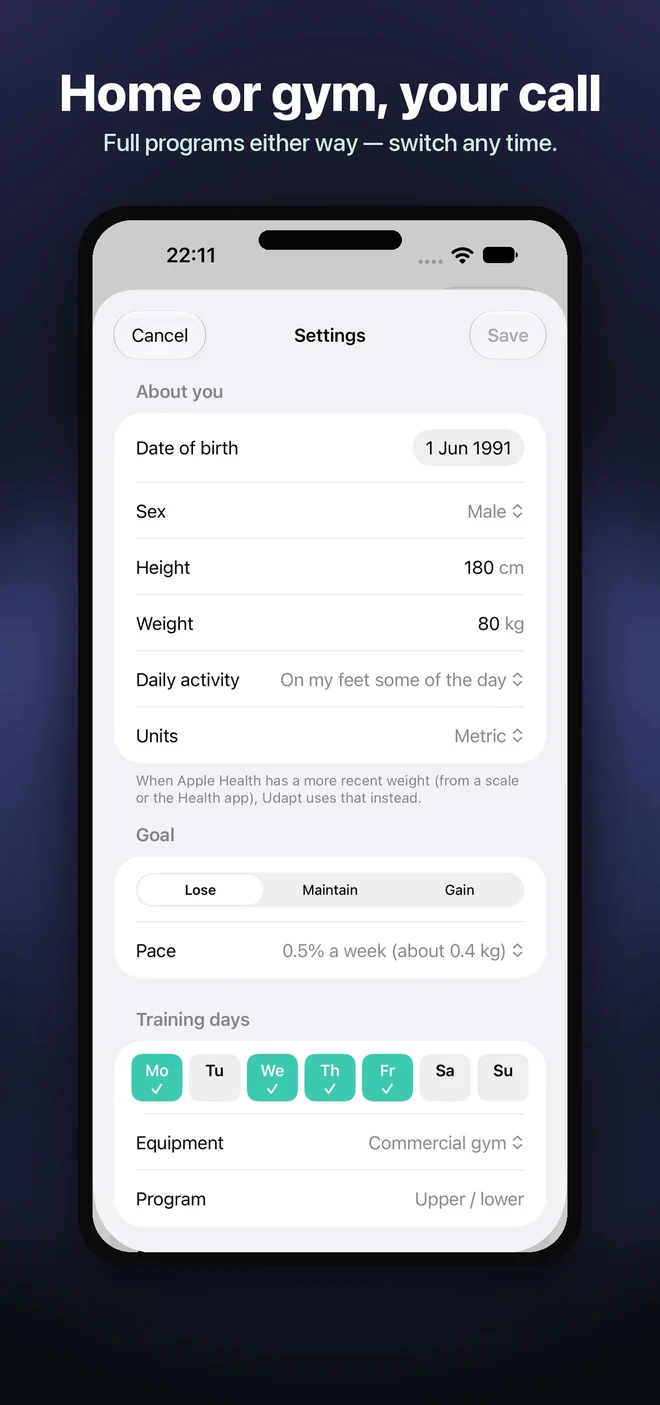
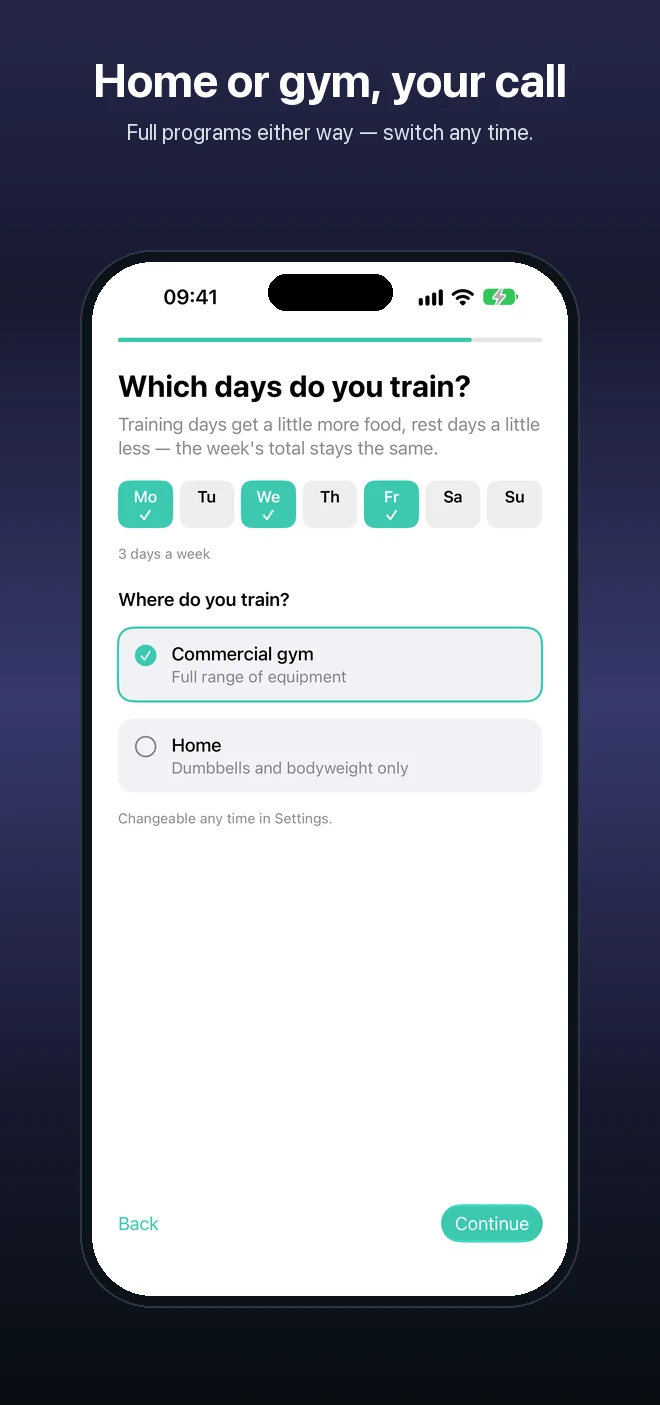
Refresh all app screenshots from the current build
- Retake flat screens and the "A closer look" panels; add the readiness
  and food Why? screens and the How to screen
- Panel 03 renamed "Food that moves with you"; new panel 07
  "Every change explained"
- scripts/make_images.py generates every app image from raw captures
- Alt text, captions and guide images updated

diff --git a/index.html b/index.html
@@ -51,7 +51,7 @@
     </ul>
   </div>
   <div class="hero-art" aria-hidden="false">
-    <div class="phone p1"><img src="images/flat-today.webp" width="600" height="1260" alt="Udapt Today screen: readiness score 9, Go, today's Upper A session with progressed weights" decoding="async"></div>
+    <div class="phone p1"><img src="images/flat-today.webp" width="600" height="1260" alt="Udapt Today screen: readiness score 9, Go, and today's Full body A session with progressed weights" decoding="async"></div>
     <div class="phone p2"><img src="images/flat-workout.webp" width="600" height="1260" alt="Udapt workout screen with progressed weights for today's session" decoding="async"></div>
   </div>
 </div></section>
@@ -59,8 +59,8 @@
 <section id="highlights"><div class="wrap">
   <div class="sec-head center rv" style="text-align:center"><span class="eyebrow">A closer look</span>
     <h2>Built around your daily plan.</h2>
-    <p>Readiness, training and food targets, plus how you log food and protect a joint. Swipe through.</p></div></div>
-  <div class="panels" role="group" aria-label="Udapt features"><img src="images/01-ready-in-one-glance.webp" width="660" height="1405" alt="Ready in one glance: readiness score 9, Go, with today's Upper A session" loading="lazy" decoding="async"><img src="images/02-training-that-adapts.webp" width="660" height="1405" alt="Training that adapts: sets and weights that ease off or push forward automatically" loading="lazy" decoding="async"><img src="images/03-fuel-that-moves-with-you.webp" width="660" height="1405" alt="Fuel that moves with you: calories and macros that shift with training days" loading="lazy" decoding="async"><img src="images/04-log-food-your-way.webp" width="660" height="1405" alt="Log food your way: search, scan a barcode, or just say what you ate" loading="lazy" decoding="async"><img src="images/05-train-around-an-injury.webp" width="660" height="1405" alt="Train around an injury: protect a joint and Udapt swaps out the risky exercises" loading="lazy" decoding="async"><img src="images/06-home-or-gym.webp" width="660" height="1405" alt="Home or gym, your call: full programs either way" loading="lazy" decoding="async"></div>
+    <p>Readiness, training and food targets, how you log food and protect a joint, and the Why? screens that explain every change. Swipe through.</p></div></div>
+  <div class="panels" role="group" aria-label="Udapt features"><img src="images/01-ready-in-one-glance.webp" width="660" height="1405" alt="Ready in one glance: readiness score 9, Go, with today's Full body A session" loading="lazy" decoding="async"><img src="images/02-training-that-adapts.webp" width="660" height="1405" alt="Training that adapts: today's sets with weights worked out from your last session" loading="lazy" decoding="async"><img src="images/03-food-that-moves-with-you.webp" width="660" height="1405" alt="Food that moves with you: calories, protein, carbs and fat that shift with your training, with a step-by-step chart of how today's target is built" loading="lazy" decoding="async"><img src="images/04-log-food-your-way.webp" width="660" height="1405" alt="Log food your way: search, scan a barcode, or just say what you ate" loading="lazy" decoding="async"><img src="images/05-train-around-an-injury.webp" width="660" height="1405" alt="Train around an injury: protect a joint and Udapt swaps out the risky exercises" loading="lazy" decoding="async"><img src="images/06-home-or-gym.webp" width="660" height="1405" alt="Home or gym, your call: full programs either way" loading="lazy" decoding="async"><img src="images/07-every-change-explained.webp" width="660" height="1405" alt="Every change explained: the readiness Why? screen with a chart comparing today with your normal" loading="lazy" decoding="async"></div>
 </section>
 
 <section id="features"><div class="wrap">
@@ -89,7 +89,7 @@
   <div class="wrap"><div class="sec-head rv"><span class="eyebrow">Screens</span>
     <h2>Calm, clear and quick to use.</h2>
     <p>Large, readable cards and quick logging, with no clutter to dig through.</p></div></div>
-  <div class="rail-wrap"><div class="rail" tabindex="0" role="group" aria-label="App screenshots"><figure class="slide"><div class="phone"><img src="images/flat-today.webp" width="600" height="1260" alt="Today: readiness score, check-in status and today's session" loading="lazy" decoding="async"></div><figcaption><b>Today</b><span>Readiness, training and food targets, all in one place.</span></figcaption></figure><figure class="slide"><div class="phone"><img src="images/flat-workout.webp" width="600" height="1260" alt="Workout screen with progressed weights for today's session" loading="lazy" decoding="async"></div><figcaption><b>Workout</b><span>Today's sets and weights, adjusted for how you're doing.</span></figcaption></figure><figure class="slide"><div class="phone"><img src="images/flat-food.webp" width="600" height="1260" alt="Food log for the day with breakfast and lunch entries" loading="lazy" decoding="async"></div><figcaption><b>Food</b><span>Calories and macros against today's targets.</span></figcaption></figure><figure class="slide"><div class="phone"><img src="images/flat-foodsearch.webp" width="600" height="1260" alt="Food search with recent foods and an on-device AI logging button" loading="lazy" decoding="async"></div><figcaption><b>Log food</b><span>Search, scan, or use on-device AI.</span></figcaption></figure><figure class="slide"><div class="phone"><img src="images/flat-joint.webp" width="600" height="1260" alt="Settings showing joints you can protect, with Knee turned on" loading="lazy" decoding="async"></div><figcaption><b>Protect a joint</b><span>Swaps exercises that load a flagged joint.</span></figcaption></figure><figure class="slide"><div class="phone"><img src="images/flat-settings.webp" width="600" height="1260" alt="Settings screen with equipment and training days" loading="lazy" decoding="async"></div><figcaption><b>Settings</b><span>Home or gym, and everything else, your call.</span></figcaption></figure></div>
+  <div class="rail-wrap"><div class="rail" tabindex="0" role="group" aria-label="App screenshots"><figure class="slide"><div class="phone"><img src="images/flat-today.webp" width="600" height="1260" alt="Today: readiness score, check-in status and today's session" loading="lazy" decoding="async"></div><figcaption><b>Today</b><span>Readiness, training and food targets, all in one place.</span></figcaption></figure><figure class="slide"><div class="phone"><img src="images/flat-readiness.webp" width="600" height="1260" alt="Readiness Why? screen: where the score comes from and a chart of today compared with your normal" loading="lazy" decoding="async"></div><figcaption><b>Readiness, explained</b><span>Where your score comes from, with charts and the research.</span></figcaption></figure><figure class="slide"><div class="phone"><img src="images/flat-workout.webp" width="600" height="1260" alt="Workout screen with progressed weights for today's session" loading="lazy" decoding="async"></div><figcaption><b>Workout</b><span>Today's sets and weights, adjusted for how you're doing.</span></figcaption></figure><figure class="slide"><div class="phone"><img src="images/flat-food.webp" width="600" height="1260" alt="Food log for the day with breakfast and lunch entries" loading="lazy" decoding="async"></div><figcaption><b>Food</b><span>Calories and macros against today's targets.</span></figcaption></figure><figure class="slide"><div class="phone"><img src="images/flat-fuel.webp" width="600" height="1260" alt="Food targets Why? screen: where the numbers come from and a chart of how today's target is built" loading="lazy" decoding="async"></div><figcaption><b>Food, explained</b><span>How today&rsquo;s target is built, step by step.</span></figcaption></figure><figure class="slide"><div class="phone"><img src="images/flat-foodsearch.webp" width="600" height="1260" alt="Food search with recent foods and a smart log button for photo or voice" loading="lazy" decoding="async"></div><figcaption><b>Log food</b><span>Search, scan, or snap a photo.</span></figcaption></figure><figure class="slide"><div class="phone"><img src="images/flat-joint.webp" width="600" height="1260" alt="Training settings: joints you can protect, with Knee turned on" loading="lazy" decoding="async"></div><figcaption><b>Protect a joint</b><span>Swaps exercises that load a flagged joint.</span></figcaption></figure><figure class="slide"><div class="phone"><img src="images/flat-settings.webp" width="600" height="1260" alt="Settings: your plan, help and information, and your data" loading="lazy" decoding="async"></div><figcaption><b>Settings</b><span>Simple, with the user guide and the science one tap away.</span></figcaption></figure></div>
   <div class="rail-btns"><button id="rail-prev" aria-label="Previous screenshots"><svg viewBox="0 0 24 24" aria-hidden="true"><path d="m15 18-6-6 6-6"/></svg></button><button id="rail-next" aria-label="Next screenshots"><svg viewBox="0 0 24 24" aria-hidden="true"><path d="m9 18 6-6-6-6"/></svg></button></div></div>
 </div></section>
 

diff --git a/guide.html b/guide.html
@@ -59,13 +59,13 @@
 </section>
 <section class="clause guide-step" id="readiness">
 <h2 class="clause-title">Your readiness score</h2>
-<div class="guide-text"><p>Each morning you get a score from 0 to 10 and one of three words:</p>
+<div class="guide-row"><div class="guide-text"><p>Each morning you get a score from 0 to 10 and one of three words:</p>
 <ul><li><b>Go</b> (7&ndash;10): train as planned.</li>
 <li><b>Ease off</b> (4&ndash;6): a lighter version of today&rsquo;s session.</li>
 <li><b>Recover</b> (0&ndash;3): a walk, stretching or rest is suggested.</li></ul>
 <p><b>Your score comes from your own Apple Health data</b> &mdash; heart rate variability, resting heart rate and sleep, recorded by your Apple Watch &mdash; plus your morning check-in. Each one is compared with your own last 30 days, not with anyone else. A 7 means you&rsquo;re at your normal, and normal is good.</p>
 <p>Tap <b>Why?</b> on the card to see charts of how each signal compares with your normal, how much each one counts, and the research behind it. For the full story, see <a href="science.html#readiness">The science</a>.</p>
-<p><b>&ldquo;Learning your normal&rdquo;?</b> Udapt needs about two weeks of Apple Health data first. In the meantime, the morning check-in still gives you a score.</p></div>
+<p><b>&ldquo;Learning your normal&rdquo;?</b> Udapt needs about two weeks of Apple Health data first. In the meantime, the morning check-in still gives you a score.</p></div><div class="guide-art"><div class="phone"><img src="images/flat-readiness.webp" width="600" height="1260" alt="The readiness Why? screen showing where the score comes from and a chart of today against your normal" loading="lazy" decoding="async"></div></div></div>
 <p class="guide-top"><a href="#contents">Back to contents</a></p>
 </section>
 <section class="clause guide-step" id="checkin">
@@ -103,7 +103,7 @@
 <li><b>Protein never drops</b>, whatever the day.</li>
 <li>After <b>two weeks</b> of complete food logs and regular weigh-ins, Udapt compares what you ate with how your weight moved and corrects your target. It won&rsquo;t move more than 150 kcal a week.</li></ul>
 <p>Tap <b>Why?</b> on the <b>Today&rsquo;s food</b> card to see how today&rsquo;s number was built, step by step, your protein, carbs and fat, your whole week, and how many more days of logging Udapt needs before it learns your real daily burn. Each rule links to the research behind it (see <a href="science.html#food">The science</a>).</p>
-<p>Weigh yourself with smart scales that save to Apple Health, or add your weight in the Health app. Udapt always uses your latest weight.</p></div><div class="guide-art"><div class="phone"><img src="images/flat-food.webp" width="600" height="1260" alt="The food log with calories and protein, carbs and fat" loading="lazy" decoding="async"></div></div></div>
+<p>Weigh yourself with smart scales that save to Apple Health, or add your weight in the Health app. Udapt always uses your latest weight.</p></div><div class="guide-art"><div class="phone"><img src="images/flat-fuel.webp" width="600" height="1260" alt="The food targets Why? screen showing where the numbers come from and how today's target is built" loading="lazy" decoding="async"></div></div></div>
 <p class="guide-top"><a href="#contents">Back to contents</a></p>
 </section>
 <section class="clause guide-step" id="joint">

diff --git a/scripts/make_images.py b/scripts/make_images.py
@@ -1,0 +1,122 @@
+"""Builds the site's app images from raw simulator screenshots.
+
+Capture the screenshots first with the main repo's `scripts/capture_screenshots.sh <dir>`, then:
+    python3 scripts/make_images.py <dir>
+
+Writes images/flat-*.webp (plain screens for the hero and the screenshot rail) and
+images/0N-*.webp (the "A closer look" panels: headline + phone on a tinted background).
+"""
+import sys
+from pathlib import Path
+from PIL import Image, ImageDraw, ImageFont
+
+SRC = Path(sys.argv[1])
+OUT = Path(__file__).resolve().parent.parent / "images"
+FONT = "/System/Library/Fonts/SFNS.ttf"
+
+# flat image name -> screenshot name
+FLAT = {"today": "today", "workout": "workout", "food": "food", "foodsearch": "foodsearch",
+        "joint": "training", "settings": "settings", "readiness": "readiness", "fuel": "fuel", "guide": "guide"}
+
+# panel file, headline, subline, screenshot, accent colour (the background's brightest band)
+PANELS = [
+    ("01-ready-in-one-glance", "Ready in one glance", "Readiness, training and food — adjusted together every morning.", "today", (30, 100, 90)),
+    ("02-training-that-adapts", "Training that adapts", "Weights go up when you’re ready, and ease off when you’re not.", "workout", (36, 70, 116)),
+    ("03-food-that-moves-with-you", "Food that moves with you", "Calories, protein, carbs and fat that shift with your training.", "fuel", (112, 83, 38)),
+    ("04-log-food-your-way", "Log food your way", "Search, scan a barcode, or just say what you ate.", "foodsearch", (31, 94, 109)),
+    ("05-train-around-an-injury", "Train around an injury", "Protect a joint and Udapt swaps out exercises that load it.", "training", (108, 63, 48)),
+    ("06-home-or-gym", "Home or gym, your call", "Full programs either way — switch any time.", "onboarding-schedule", (55, 58, 109)),
+    ("07-every-change-explained", "Every change explained", "Tap Why? for charts, plain English and the research behind it.", "readiness", (84, 52, 120)),
+]
+
+
+def font(size, weight):
+    f = ImageFont.truetype(FONT, size)
+    f.set_variation_by_name(weight)
+    return f
+
+
+def background(w, h, accent):
+    """Vertical bands matching the original panels: dim top, bright middle glow, near-black foot."""
+    stops = [(0, 0.67), (0.21, 0.45), (0.5, 1.0), (0.78, 0.44)]
+    foot = (8, 14, 17)
+    img = Image.new("RGB", (w, h))
+    px = img.load()
+    for y in range(h):
+        t = y / (h - 1)
+        if t >= stops[-1][0]:
+            k = (t - stops[-1][0]) / (1 - stops[-1][0])
+            a = tuple(c * stops[-1][1] for c in accent)
+            col = tuple(int(a[i] + (foot[i] - a[i]) * k) for i in range(3))
+        else:
+            for (t0, m0), (t1, m1) in zip(stops, stops[1:]):
+                if t0 <= t <= t1:
+                    k = (t - t0) / (t1 - t0)
+                    m = m0 + (m1 - m0) * k
+                    col = tuple(int(c * m) for c in accent)
+                    break
+        for x in range(w):
+            px[x, y] = col
+    return img
+
+
+def phone(screen, width):
+    """A simple device frame: dark bezel, rounded screen, Dynamic Island."""
+    pad = round(width * 0.024)
+    sw = width - 2 * pad
+    shot = screen.resize((sw, round(screen.height * sw / screen.width)), Image.LANCZOS)
+    h = shot.height + 2 * pad
+    frame = Image.new("RGBA", (width, h), (0, 0, 0, 0))
+    d = ImageDraw.Draw(frame)
+    d.rounded_rectangle((0, 0, width - 1, h - 1), radius=round(width * 0.145), fill=(12, 18, 24, 255), outline=(43, 55, 66, 255), width=2)
+    mask = Image.new("L", shot.size, 0)
+    ImageDraw.Draw(mask).rounded_rectangle((0, 0, sw - 1, shot.height - 1), radius=round(sw * 0.125), fill=255)
+    frame.paste(shot, (pad, pad), mask)
+    iw, ih = round(sw * 0.26), round(sw * 0.075)
+    ix, iy = (width - iw) // 2, pad + round(sw * 0.026)
+    d.rounded_rectangle((ix, iy, ix + iw, iy + ih), radius=ih // 2, fill=(0, 0, 0, 255))
+    return frame
+
+
+def wrap(draw, text, f, max_width):
+    lines, line = [], ""
+    for word in text.split():
+        trial = f"{line} {word}".strip()
+        if draw.textlength(trial, font=f) <= max_width:
+            line = trial
+        else:
+            lines.append(line)
+            line = word
+    lines.append(line)
+    return lines
+
+
+def panel(name, title, sub, shot, accent):
+    W, H = 660, 1405
+    img = background(W, H, accent)
+    d = ImageDraw.Draw(img)
+    y = 64
+    for line in wrap(d, title, font(46, "Bold"), W - 60):
+        d.text((W / 2, y), line, font=font(46, "Bold"), fill="white", anchor="mt")
+        y += 54
+    y += 6
+    for line in wrap(d, sub, font(22, "Regular"), W - 90):
+        d.text((W / 2, y), line, font=font(22, "Regular"), fill=(214, 226, 232), anchor="mt")
+        y += 28
+    frame = phone(Image.open(SRC / f"{shot}.png").convert("RGB"), 500)
+    top = max(y + 34, 250)
+    img.paste(frame, ((W - frame.width) // 2, top), frame)
+    img.save(OUT / f"{name}.webp", quality=88, method=6)
+
+
+def flat(name, shot):
+    im = Image.open(SRC / f"{shot}.png").convert("RGB")
+    im = im.resize((600, round(im.height * 600 / im.width)), Image.LANCZOS).crop((0, 0, 600, 1260))
+    im.save(OUT / f"flat-{name}.webp", quality=88, method=6)
+
+
+for name, shot in FLAT.items():
+    flat(name, shot)
+for p in PANELS:
+    panel(*p)
+print("wrote", len(FLAT), "flat images and", len(PANELS), "panels to", OUT)

diff --git a/README.md b/README.md
@@ -12,3 +12,6 @@ Plain static HTML/CSS, no build step — matches the `airreveal-legal` / `glpmgr
 - `guide.html` — plain-English user guide (linked from the app's Settings → Help and information)
 
 Pricing, feature copy and privacy claims here should stay in sync with the main app repo (`docs/SUBSCRIPTION.md`, `docs/PLAN_ENGINE_SPEC.md`, `docs/PRIVACY_POLICY.md`) — update both sides when either changes.
+
+## App images
+`images/flat-*.webp` and the `images/0N-*.webp` panels are generated, not hand-made: run `scripts/capture_screenshots.sh <dir>` in the main Udapt repo (simulator), then `python3 scripts/make_images.py <dir>` here. Re-run whenever the app's screens change.
